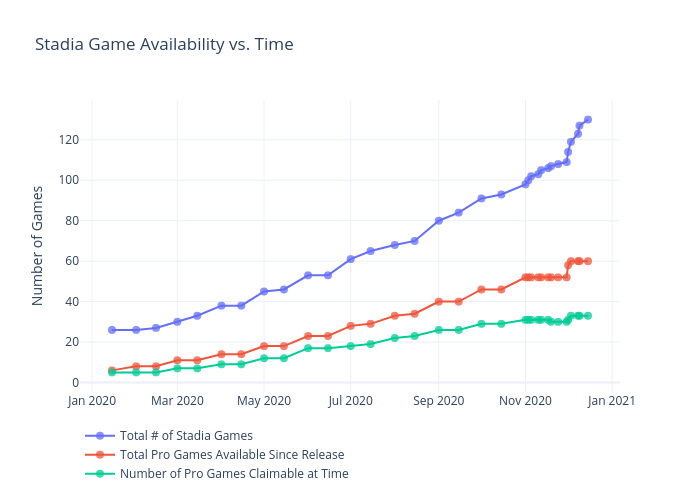
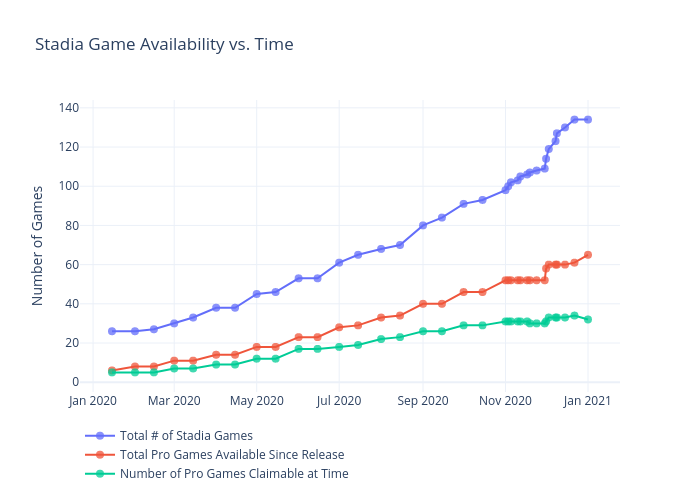
Add files via upload

diff --git a/games/figure.js b/games/figure.js
@@ -46,7 +46,7 @@ var figure = {
                 "2020-12-08",
                 "2020-12-09",
                 "2020-12-15",
-                "2020-12-31",
+                "2020-12-22",
                 "2021-01-01"
             ],
             "ysrc": "jdeslip:358:e03fe9",
@@ -84,7 +84,9 @@ var figure = {
                 "119",
                 "123",
                 "127",
-                "130"
+                "130",
+                "134",
+                "134"
             ],
             "marker": {
                 "size": 8,
@@ -140,7 +142,7 @@ var figure = {
                 "2020-12-08",
                 "2020-12-09",
                 "2020-12-15",
-                "2020-12-31",
+                "2020-12-22",
                 "2021-01-01"
             ],
             "ysrc": "jdeslip:358:5f7e72",
@@ -178,7 +180,9 @@ var figure = {
                 "60",
                 "60",
                 "60",
-                "60"
+                "60",
+                "61",
+                "65"
             ],
             "marker": {
                 "size": 8,
@@ -234,7 +238,7 @@ var figure = {
                 "2020-12-08",
                 "2020-12-09",
                 "2020-12-15",
-                "2020-12-31",
+                "2020-12-22",
                 "2021-01-01"
             ],
             "ysrc": "jdeslip:358:81d550",
@@ -272,7 +276,9 @@ var figure = {
                 "33",
                 "33",
                 "33",
-                "33"
+                "33",
+                "34",
+                "32"
             ],
             "marker": {
                 "size": 8,
@@ -290,8 +296,8 @@ var figure = {
         "xaxis": {
             "type": "date",
             "range": [
-                "2019-12-25 00:08:56.4742",
-                "2021-01-04 23:51:03.5258"
+                "2019-12-23 22:34:49.6684",
+                "2021-01-23 01:25:10.3316"
             ],
             "title": {
                 "text": ""
@@ -301,8 +307,8 @@ var figure = {
         "yaxis": {
             "type": "linear",
             "range": [
-                -3.5970966206568296,
-                138.59709662065683
+                -3.872203712517848,
+                142.87220371251786
             ],
             "title": {
                 "text": "Number of Games"
